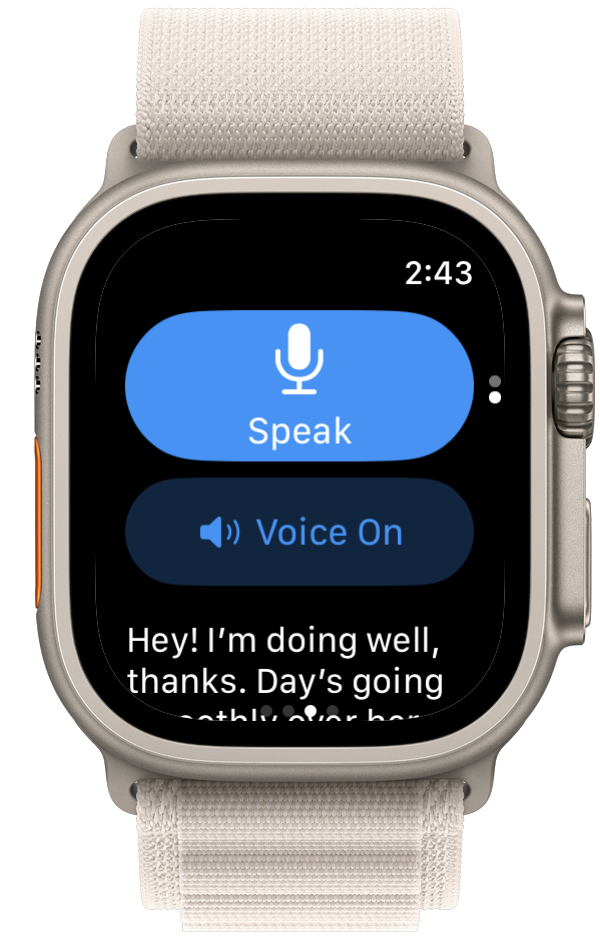
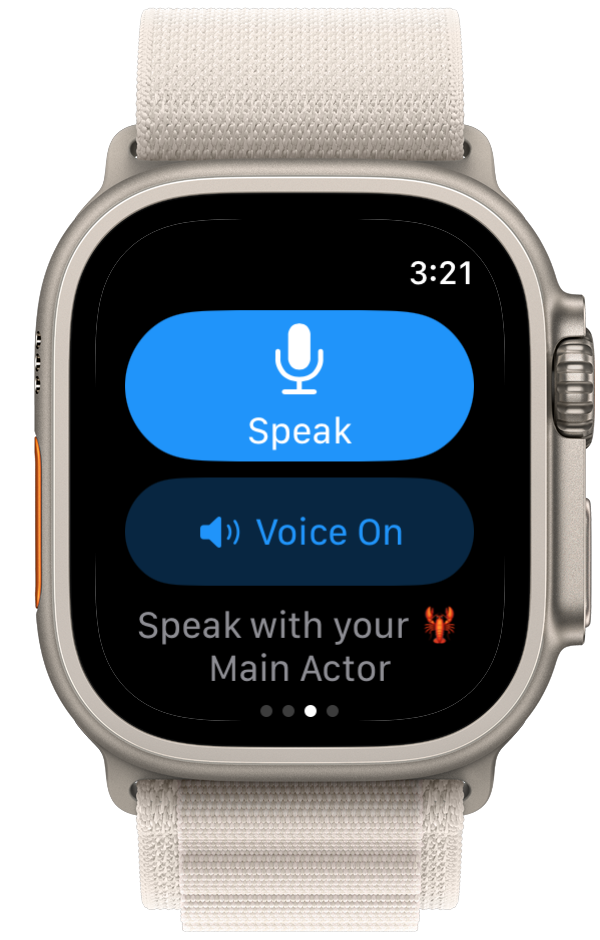
fix: drop AgentLeadingIconView; refresh Speak and Agents README shots
Remove unused list-row logo helper now that Main Actor uses the lobster emoji in titles and empty-state copy.

diff --git a/OpenWatch Watch App/Views/WatchHomeView.swift b/OpenWatch Watch App/Views/WatchHomeView.swift
@@ -495,7 +495,7 @@ struct GatewaySessionsListPage: View {
             .padding(.horizontal, 4)
             .padding(.top, 4)
         }
-        .navigationTitle("Sessions")
+        .navigationTitle("💬 Sessions")
         .refreshable {
             await model.refreshSessionsForCurrentAgent()
         }
@@ -597,7 +597,7 @@ struct AgentsPage: View {
             }
             .disabled(model.agentsRefreshing)
         }
-        .navigationTitle("Agents")
+        .navigationTitle("🦞 Agents")
     }
 }
 
@@ -612,7 +612,6 @@ struct WatchAgentListRow: View {
 
     var body: some View {
         HStack(spacing: 8) {
-            AgentLeadingIconView(agentId: agent.id, emoji: agent.emoji, size: 18)
             VStack(alignment: .leading, spacing: 2) {
                 Text(displayName)
                     .lineLimit(1)
@@ -633,34 +632,6 @@ struct WatchAgentListRow: View {
                 Image(systemName: "checkmark")
                     .font(.caption.weight(.semibold))
             }
-        }
-    }
-}
-
-// ─── Ariadne's Thread [AT-0161] ─────────────────────
-// What: AgentLogo placeholder in Agents list only when Main Actor has no custom emoji.
-// Why:  Inline image on the main session screen broke layout; list row is the correct place for the mascot.
-// Date: 2026-06-11
-// Related: [AT-0159] WatchAppModel.shouldShowMainAgentLogo, [AT-0158] ComplicationAgent
-// ─────────────────────────────────────────────────────
-struct AgentLeadingIconView: View {
-    let agentId: String
-    let emoji: String?
-    var size: CGFloat = 18
-
-    var body: some View {
-        if WatchAppModel.shouldShowMainAgentLogo(agentId: agentId, emoji: emoji) {
-            Image("AgentLogo")
-                .resizable()
-                .scaledToFit()
-                .frame(width: size, height: size)
-        } else if let trimmedEmoji = emoji?.trimmingCharacters(in: .whitespacesAndNewlines), !trimmedEmoji.isEmpty {
-            Text(trimmedEmoji)
-                .font(.system(size: size * 0.95))
-        } else {
-            Image(systemName: "person.circle.fill")
-                .font(.system(size: size))
-                .foregroundStyle(.secondary)
         }
     }
 }

diff --git a/OpenWatch Watch App/WatchAppModel.swift b/OpenWatch Watch App/WatchAppModel.swift
@@ -904,7 +904,7 @@ final class WatchAppModel: ObservableObject {
     private func agentRowsForDisplay() -> [WatchAgentRow] {
         let rows = watchStore.agentOrder.compactMap { watchStore.agentsById[$0] }
         guard !rows.isEmpty else {
-            return [WatchGatewayAgent(id: "main", name: "Main Actor", emoji: nil, subtitle: "Default agent", modelLabel: nil, isDefault: true)]
+            return [WatchGatewayAgent(id: "main", name: "Main Actor", emoji: "🦞", subtitle: "Default agent", modelLabel: nil, isDefault: true)]
         }
         return rows
     }
@@ -1489,7 +1489,7 @@ final class WatchAppModel: ObservableObject {
             return [WatchGatewayAgent(
                 id: "main",
                 name: "Main Actor",
-                emoji: nil,
+                emoji: "🦞",
                 subtitle: "Default agent",
                 modelLabel: nil,
                 isDefault: true
@@ -1539,25 +1539,12 @@ final class WatchAppModel: ObservableObject {
         sortedAgentsForDisplay.first { $0.id == mainAgentId }
     }
 
-    // ─── Ariadne's Thread [AT-0161] ─────────────────────
-    // What: Main Actor logo placeholder only when no custom emoji (legacy 🎯 counts as unset).
-    // Why:  Custom emoji stays in text UI; mascot PNG is for Agents list + watch-face complication.
-    // Date: 2026-06-11
-    // Related: [AT-0161] AgentLeadingIconView
-    // ─────────────────────────────────────────────────────
-    /// Main Actor uses the red agent logo when emoji is missing or still the legacy 🎯 default.
-    static func shouldShowMainAgentLogo(agentId: String, emoji: String?) -> Bool {
-        guard agentId == "main" else { return false }
-        guard let emoji = emoji?.trimmingCharacters(in: .whitespacesAndNewlines), !emoji.isEmpty else { return true }
-        return emoji == "🎯"
-    }
-
     /// Emoji for the active agent (same as Agents page card).
     func selectedAgentEmojiSymbol() -> String {
         if let agent = selectedAgentDisplay {
             return agentEmoji(for: agent)
         }
-        return mainAgentId == "main" ? "🎯" : "🤖"
+        return mainAgentId == "main" ? "🦞" : "🤖"
     }
 
     /// Display name for the active agent (Main Actor for `main`).
@@ -1576,7 +1563,7 @@ final class WatchAppModel: ObservableObject {
         if let emoji = agent.emoji?.trimmingCharacters(in: .whitespacesAndNewlines), !emoji.isEmpty {
             return emoji
         }
-        return agent.id == "main" ? "🎯" : "🤖"
+        return agent.id == "main" ? "🦞" : "🤖"
     }
 
     private func newSessionKey(for agentId: String? = nil) -> String {